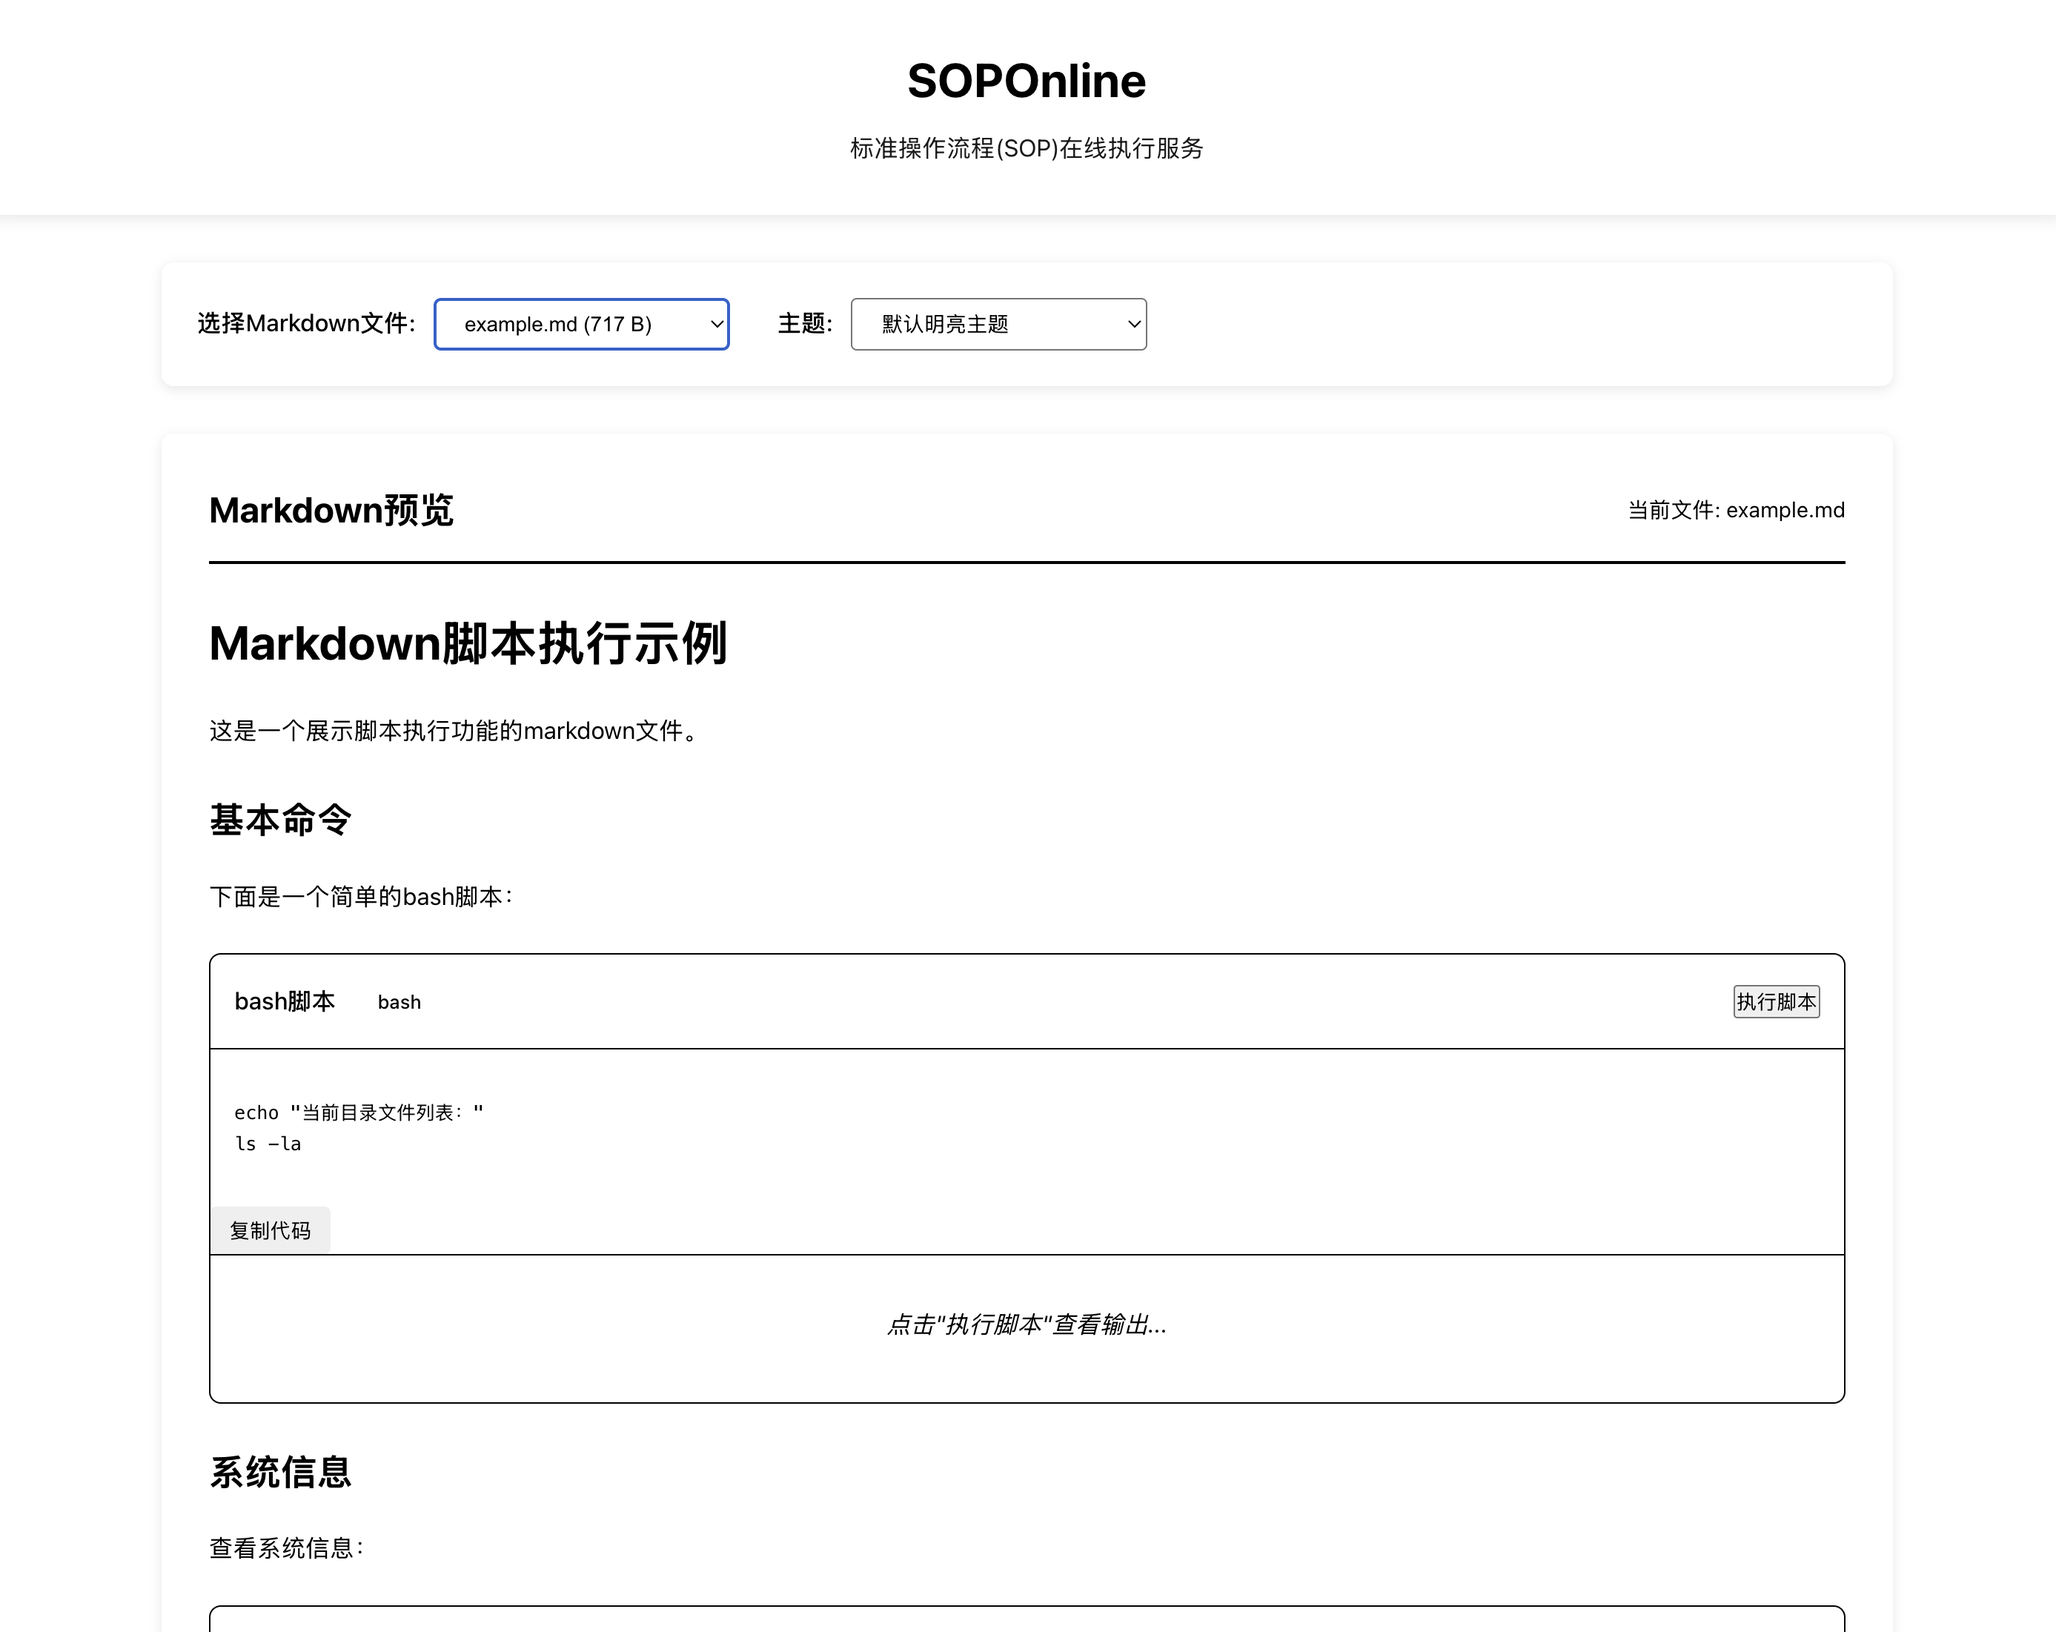
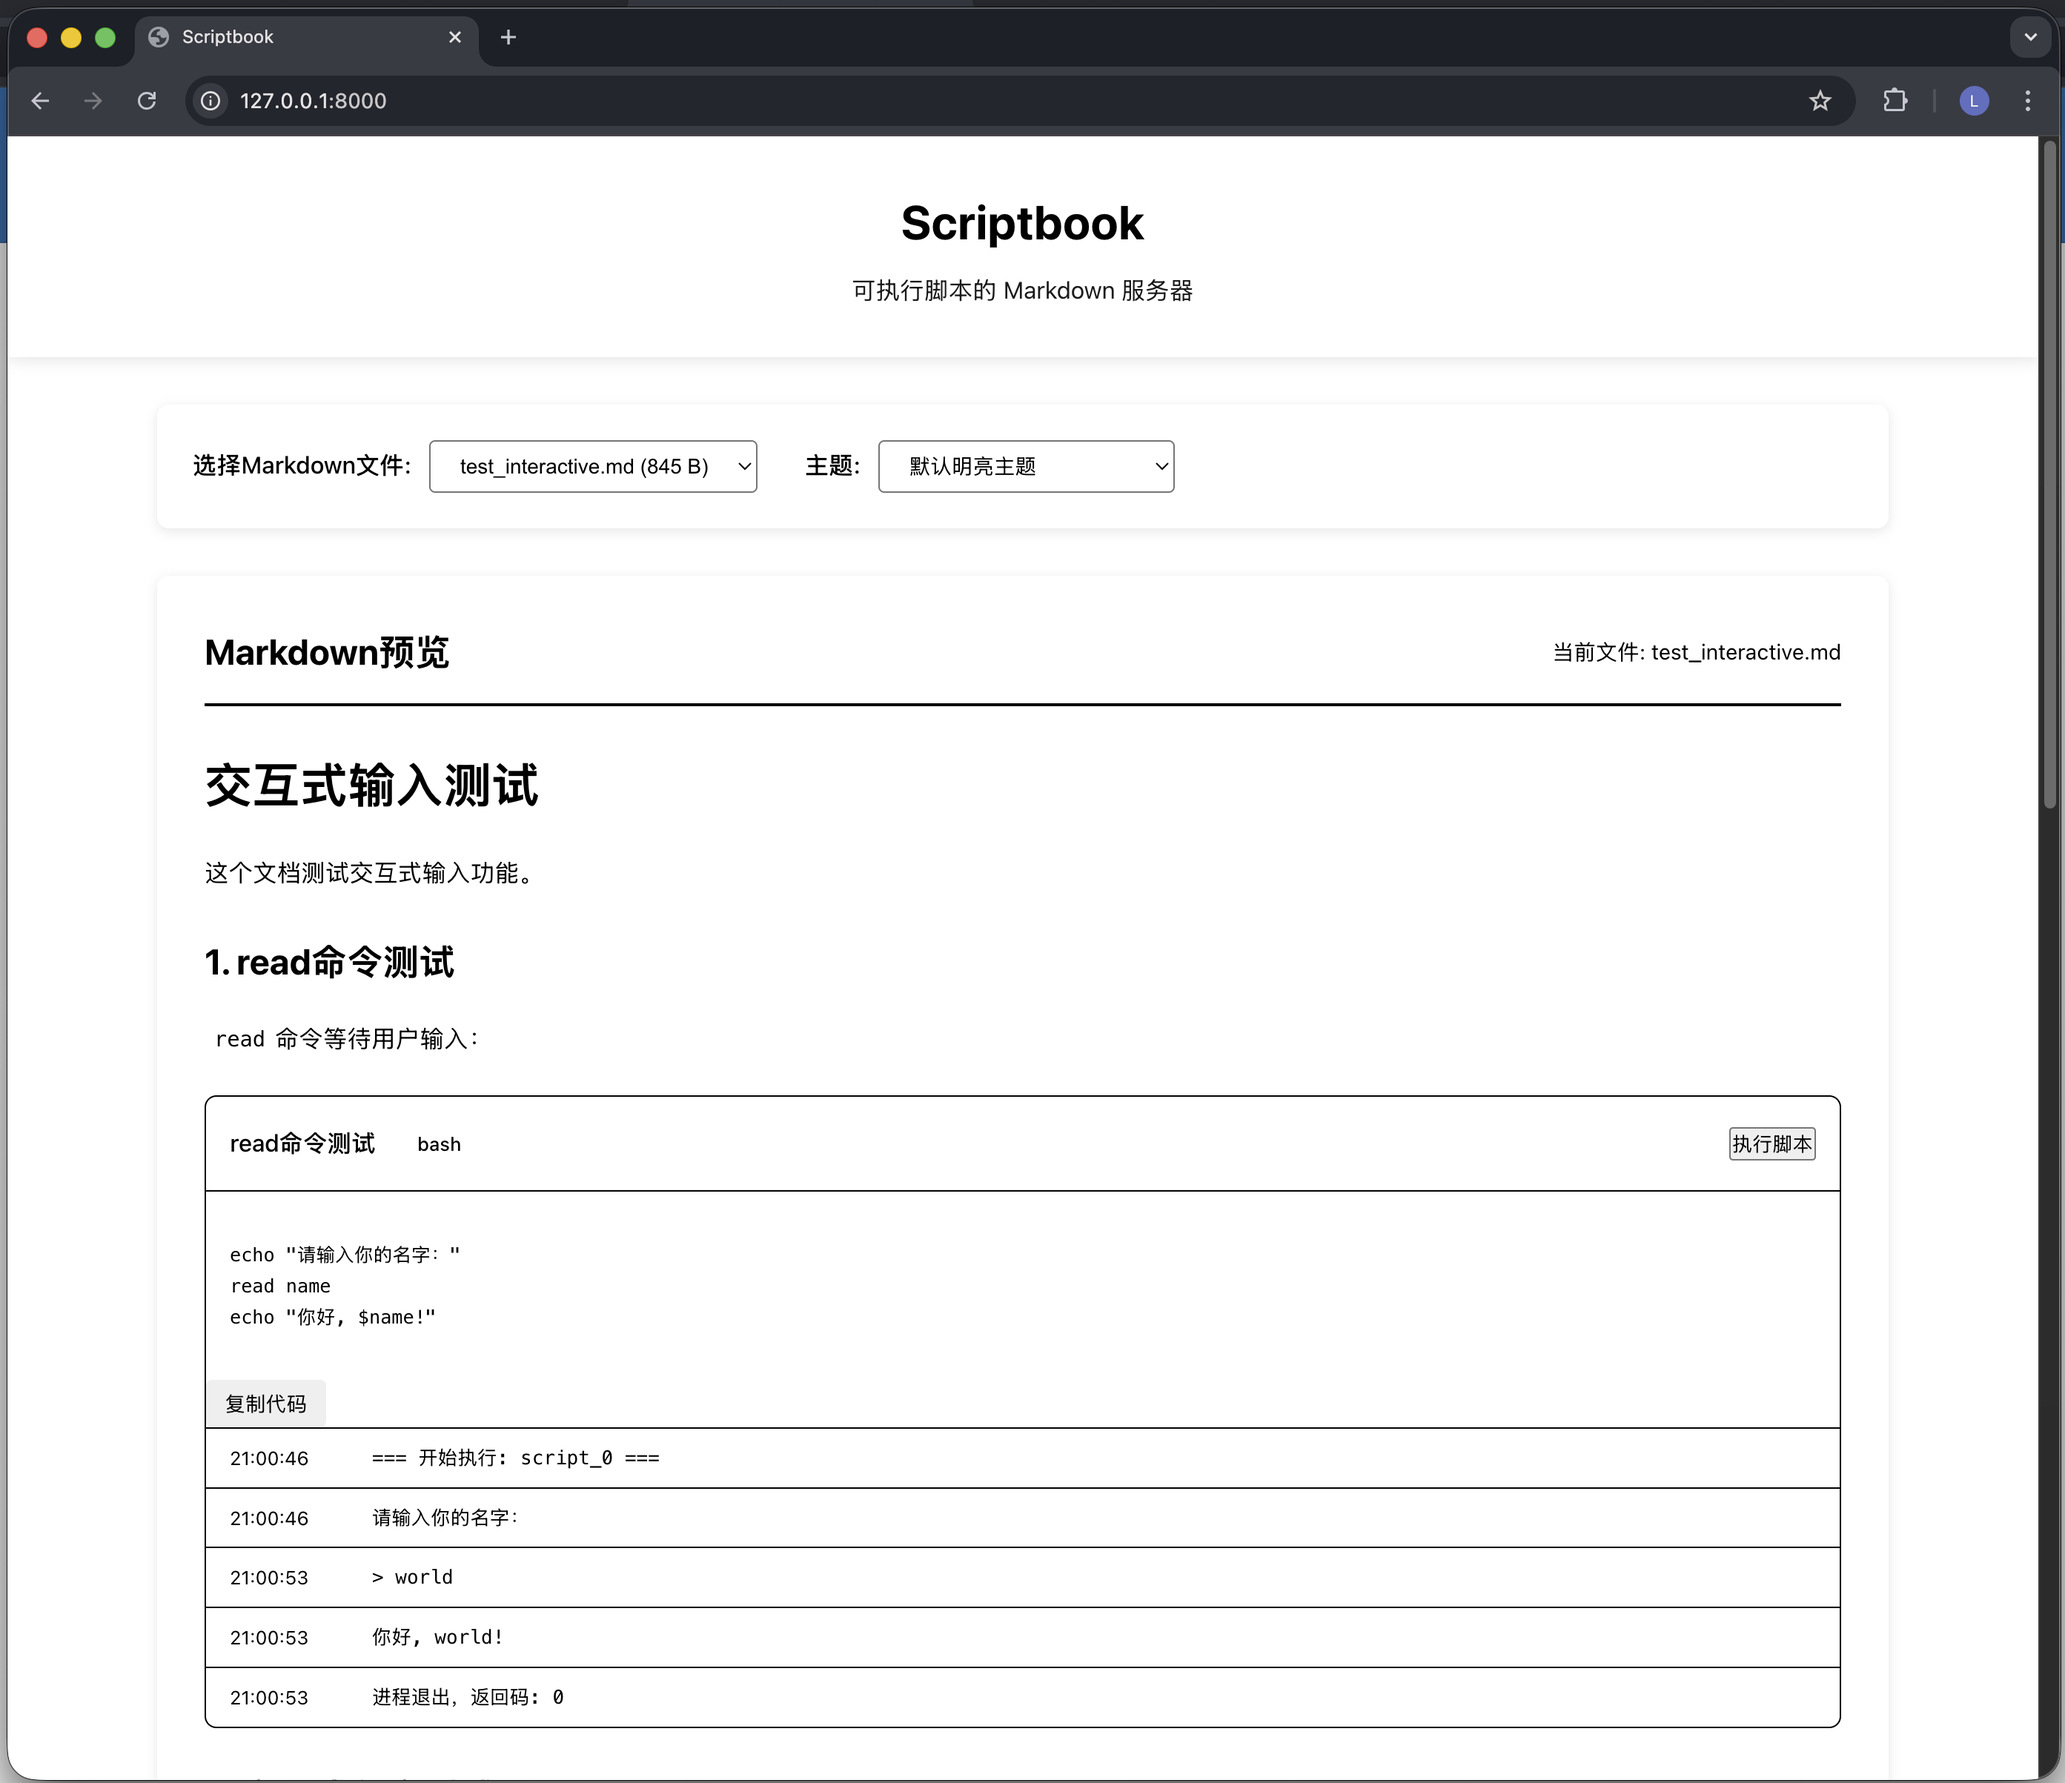
✨ 项目重命名: SOP Online → Scriptbook
- 重命名源码目录: src/sop_online → src/scriptbook
- 更新包名: sop-online → scriptbook
- 更新命令行工具: sop_online → scriptbook
- 更新所有Python导入和引用
- 更新README文档(中英文版本)
- 更新测试文件和配置文件
- 更新前端HTML、JavaScript和插件配置
- 发布到PyPI: https://pypi.org/project/scriptbook/

🤖 Generated with [Claude Code](https://claude.com/claude-code)

diff --git a/src/tests/js/app.test.js b/src/tests/js/app.test.js
@@ -1,5 +1,5 @@
 /**
- * SOP Online Frontend - JavaScript Unit Tests
+ * Scriptbook Frontend - JavaScript Unit Tests
  * 测试 app.js 中的所有功能
  */
 
@@ -15,7 +15,7 @@ describe('App 类', () => {
     };
 
     // 加载 app.js (这会创建 window.app)
-    require('../../sop_online/static/js/app.js');
+    require('../../scriptbook/static/js/app.js');
 
     // 加载后，window.app 应该已经创建
   });
@@ -184,7 +184,7 @@ describe('全局函数 - executeScript', () => {
       WebSocket: { OPEN: 1 }, // 添加 WebSocket 常量
     };
     // 加载 app.js (会创建 window.app 和全局函数)
-    require('../../sop_online/static/js/app.js');
+    require('../../scriptbook/static/js/app.js');
 
     document.body.innerHTML = `
       <div class="script-block" data-script-id="test-script">
@@ -325,7 +325,7 @@ describe('全局函数 - copyCode', () => {
       location: { host: 'localhost:8888' },
     };
     // 加载 app.js
-    require('../../sop_online/static/js/app.js');
+    require('../../scriptbook/static/js/app.js');
 
     document.body.innerHTML = `
       <div class="script-block" data-script-id="test-script">
@@ -350,7 +350,7 @@ describe('全局函数 - sendInput', () => {
       WebSocket: { OPEN: 1 }, // 添加 WebSocket 常量
     };
     // 加载 app.js
-    require('../../sop_online/static/js/app.js');
+    require('../../scriptbook/static/js/app.js');
 
     document.body.innerHTML = `
       <input type="text" id="input-test-script" value="test input" />
@@ -451,7 +451,7 @@ describe('WebSocket 事件处理', () => {
       WebSocket: { OPEN: 1 }, // 添加 WebSocket 常量
     };
     // 加载 app.js
-    require('../../sop_online/static/js/app.js');
+    require('../../scriptbook/static/js/app.js');
 
     document.body.innerHTML = `
       <div class="script-block" data-script-id="test-script">

diff --git a/src/scriptbook/static/index.html b/src/scriptbook/static/index.html
@@ -3,15 +3,15 @@
 <head>
     <meta charset="UTF-8">
     <meta name="viewport" content="width=device-width, initial-scale=1.0">
-    <title>SOPOnline</title>
+    <title>Scriptbook</title>
     <link rel="stylesheet" href="/static/css/main.css">
     <script src="/static/js/app.js" defer></script>
     <script src="/static/js/plugin-loader.js" defer></script>
 </head>
 <body>
     <header>
-        <h1>SOPOnline</h1>
-        <p class="subtitle">标准操作流程(SOP)在线执行服务</p>
+        <h1>Scriptbook</h1>
+        <p class="subtitle">可执行脚本的 Markdown 服务器</p>
     </header>
 
     <main>
@@ -47,7 +47,7 @@
     </main>
 
     <footer>
-        <p>SOPOnline &copy; 2025 | 标准操作流程(SOP)在线执行服务 | 支持Bash脚本执行 | 实时输出</p>
+        <p>Scriptbook &copy; 2025 | 可执行脚本的 Markdown 服务器 | 支持Bash脚本执行 | 实时输出</p>
     </footer>
 
     <template id="script-block-template">

diff --git a/src/scriptbook/static/js/app.js b/src/scriptbook/static/js/app.js
@@ -1,4 +1,4 @@
-// SOP Online 主应用逻辑
+// Scriptbook 主应用逻辑
 
 class App {
     constructor() {
@@ -7,7 +7,7 @@ class App {
     }
 
     async init() {
-        console.log('SOP Online 应用初始化...');
+        console.log('Scriptbook 应用初始化...');
 
         // 绑定事件
         this.bindEvents();
@@ -20,7 +20,7 @@ class App {
             await this.selectFile(this.fileList[0].name);
         }
 
-        console.log('SOP Online 应用初始化完成');
+        console.log('Scriptbook 应用初始化完成');
     }
 
     bindEvents() {

diff --git a/src/integration_tests/test_scriptbook_pytest.py b/src/integration_tests/test_scriptbook_pytest.py
@@ -1,5 +1,5 @@
 """
-SOP Online 功能测试 (pytest版本)
+Scriptbook 功能测试 (pytest版本)
 
 启动真实的服务器进行端到端测试，自动管理服务生命周期
 
@@ -8,7 +8,7 @@ SOP Online 功能测试 (pytest版本)
 - requests
 
 运行:
-    pytest src/integration_tests/test_sop_online_pytest.py -v
+    pytest src/integration_tests/test_scriptbook_pytest.py -v
 """
 import subprocess
 import sys
@@ -24,30 +24,30 @@ except ImportError:
     pytest.skip("requests模块未安装，跳过功能测试", allow_module_level=True)
 
 
-class TestSOPOnline:
-    """SOP Online 功能测试"""
+class TestScriptbook:
+    """Scriptbook 功能测试"""
 
     def test_cli_help(self):
         """测试CLI帮助命令"""
         result = subprocess.run(
-            ["sop_online", "--help"],
+            ["scriptbook", "--help"],
             capture_output=True,
             text=True,
             timeout=10
         )
         assert result.returncode == 0
-        assert "SOP Online" in result.stdout
+        assert "Scriptbook" in result.stdout
 
     def test_cli_version(self):
         """测试CLI版本显示"""
         result = subprocess.run(
-            ["sop_online", "--version"],
+            ["scriptbook", "--version"],
             capture_output=True,
             text=True,
             timeout=10
         )
         assert result.returncode == 0
-        assert "sop_online" in result.stdout or "1.0.0" in result.stdout
+        assert "scriptbook" in result.stdout or "1.0.0" in result.stdout
 
     def test_health_check(self, test_server):
         """测试健康检查端点"""
@@ -56,7 +56,7 @@ class TestSOPOnline:
 
         data = response.json()
         assert data["status"] == "healthy"
-        assert data["service"] == "sop-online"
+        assert data["service"] == "scriptbook"
 
     def test_markdown_files_api(self, test_server):
         """测试Markdown文件获取API"""
@@ -117,7 +117,7 @@ class TestSOPOnline:
         assert response.headers["content-type"].startswith("text/html")
 
         content = response.text
-        assert "SOPOnline" in content
+        assert "Scriptbook" in content
         assert "<html" in content.lower()
 
     def test_static_files(self, test_server):

diff --git a/src/integration_tests/conftest.py b/src/integration_tests/conftest.py
@@ -24,27 +24,27 @@ class TestServer:
         """启动服务器"""
         print(f"\n🚀 启动服务器 (端口: {self.port})...")
 
-        # 获取sop_online命令的完整路径
+        # 获取scriptbook命令的完整路径
         try:
             result = subprocess.run(
-                ["which", "sop_online"],
+                ["which", "scriptbook"],
                 capture_output=True,
                 text=True,
                 timeout=5
             )
             if result.returncode == 0:
-                sop_online_cmd = result.stdout.strip()
+                scriptbook_cmd = result.stdout.strip()
             else:
                 # 如果which失败，使用默认路径
-                venv_path = Path(__file__).parent.parent / ".venv" / "bin" / "sop_online"
-                sop_online_cmd = str(venv_path)
+                venv_path = Path(__file__).parent.parent / ".venv" / "bin" / "scriptbook"
+                scriptbook_cmd = str(venv_path)
         except Exception:
             # 使用默认路径
-            venv_path = Path(__file__).parent.parent / ".venv" / "bin" / "sop_online"
-            sop_online_cmd = str(venv_path)
+            venv_path = Path(__file__).parent.parent / ".venv" / "bin" / "scriptbook"
+            scriptbook_cmd = str(venv_path)
 
         cmd = [
-            sop_online_cmd,
+            scriptbook_cmd,
             self.content_dir,
             "--port", str(self.port),
             "--host", "127.0.0.1"
@@ -57,7 +57,7 @@ class TestServer:
             stdout=subprocess.PIPE,
             stderr=subprocess.PIPE,
             text=True,
-            env={**os.environ, "PATH": f"{Path(sop_online_cmd).parent}:{os.environ.get('PATH', '')}"}
+            env={**os.environ, "PATH": f"{Path(scriptbook_cmd).parent}:{os.environ.get('PATH', '')}"}
         )
 
         # 等待服务器启动

diff --git a/src/scriptbook/cli.py b/src/scriptbook/cli.py
@@ -10,7 +10,7 @@ from pathlib import Path
 
 def create_app(content_dir: Path):
     """创建FastAPI应用实例"""
-    from sop_online.main import create_app as _create_app
+    from scriptbook.main import create_app as _create_app
 
     # 设置环境变量传递content目录
     import os
@@ -22,7 +22,7 @@ def create_app(content_dir: Path):
 def main():
     """主函数"""
     parser = argparse.ArgumentParser(
-        description='SOP Online - 标准操作流程(SOP)在线执行平台，类似Jupyter Notebook',
+        description='Scriptbook - 可执行脚本的 Markdown 服务器',
         formatter_class=argparse.RawDescriptionHelpFormatter,
         epilog="""
 示例:
@@ -33,11 +33,10 @@ def main():
 
 默认端口: 8000
 默认主机: 127.0.0.1
-修改代码后请手动重启服务
 
 功能特点:
   - 在Markdown中嵌入可执行脚本
-  - 每个SOP步骤可独立执行
+  - 每个脚本块可独立执行
   - 实时输出展示
   - 类似Jupyter Notebook的交互体验
         """
@@ -89,8 +88,8 @@ def main():
         sys.exit(1)
 
     # 启动服务
-    print(f"启动 SOP Online - 标准操作流程执行平台")
-    print(f"SOP文档目录: {content_path.absolute()}")
+    print(f"启动 Scriptbook - 可执行脚本的 Markdown 服务器")
+    print(f"文档目录: {content_path.absolute()}")
     print(f"服务地址: http://{args.host}:{args.port}")
     print(f"访问地址: http://localhost:{args.port}")
     print(f"按 Ctrl+C 停止服务\n")
